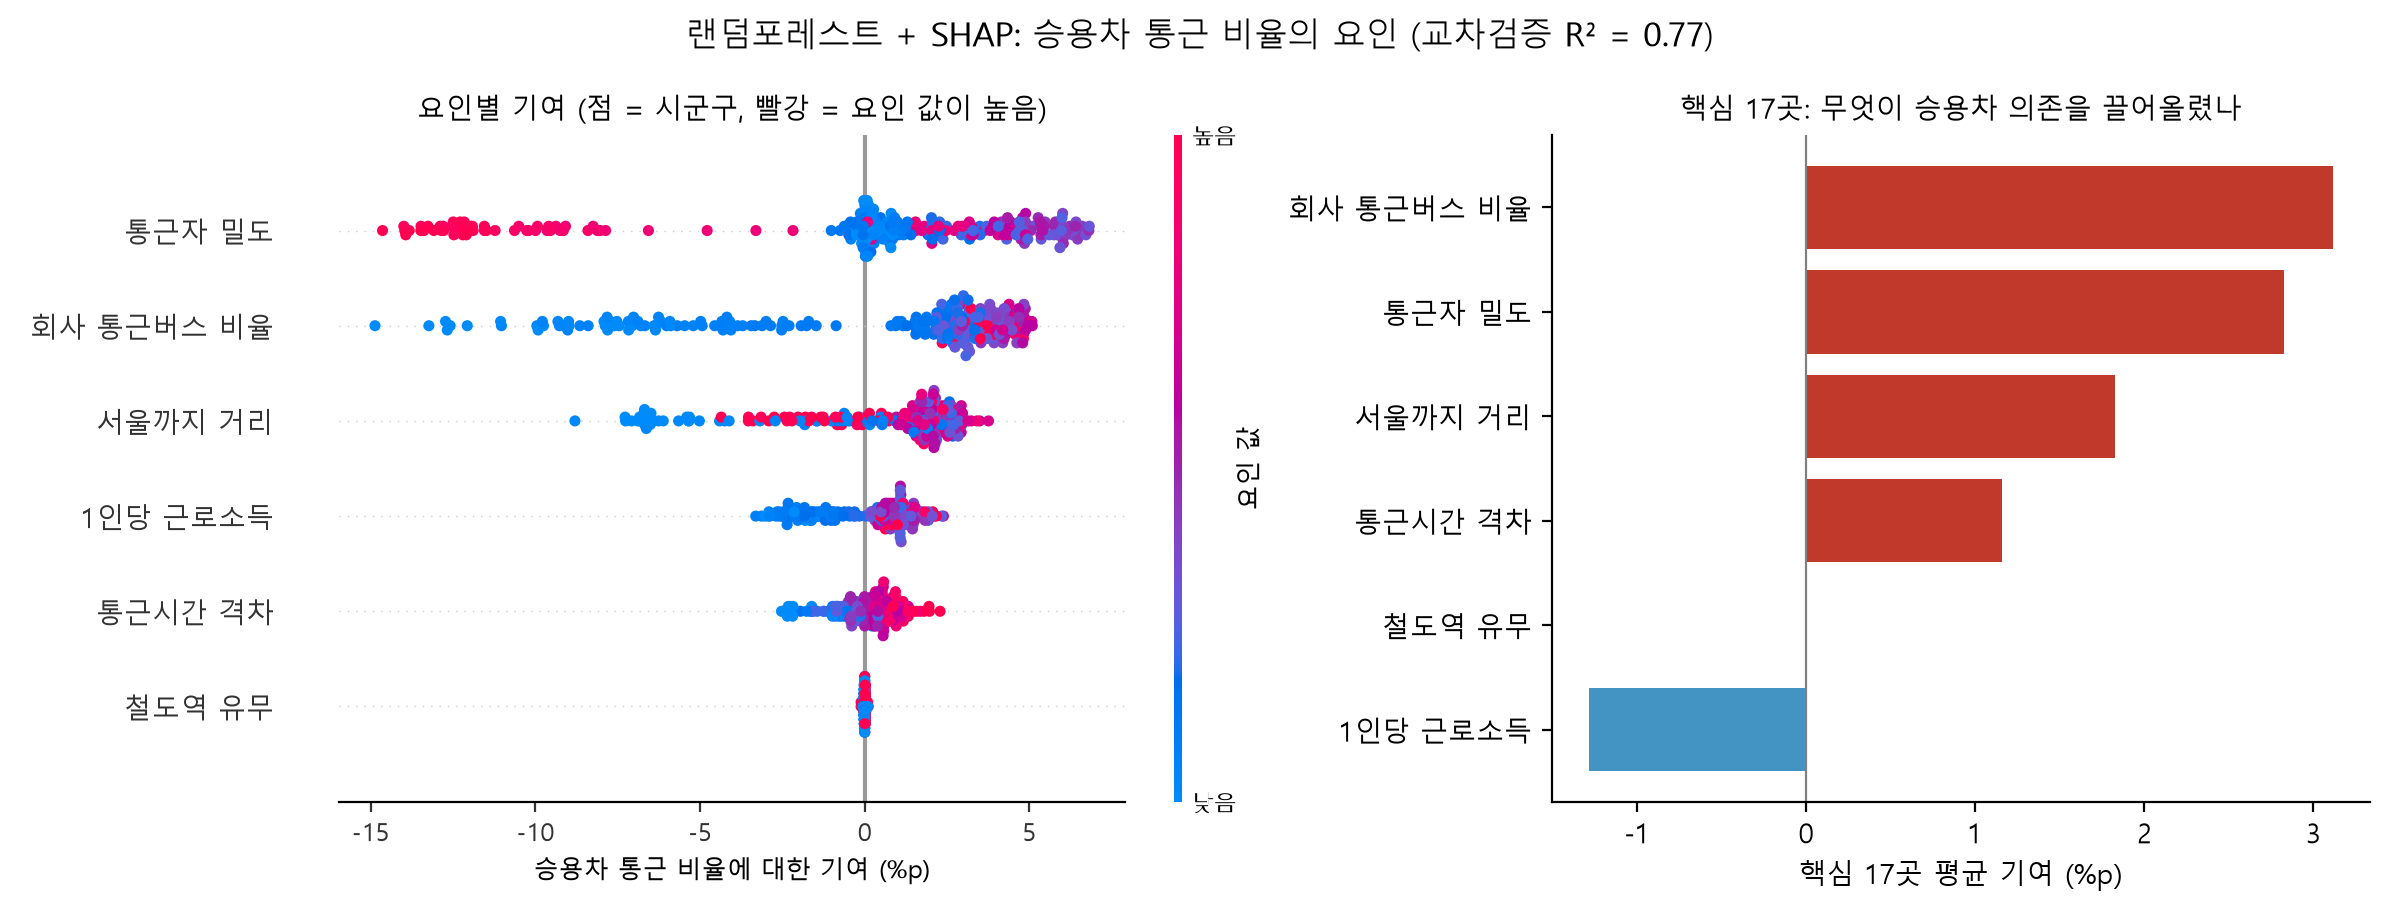
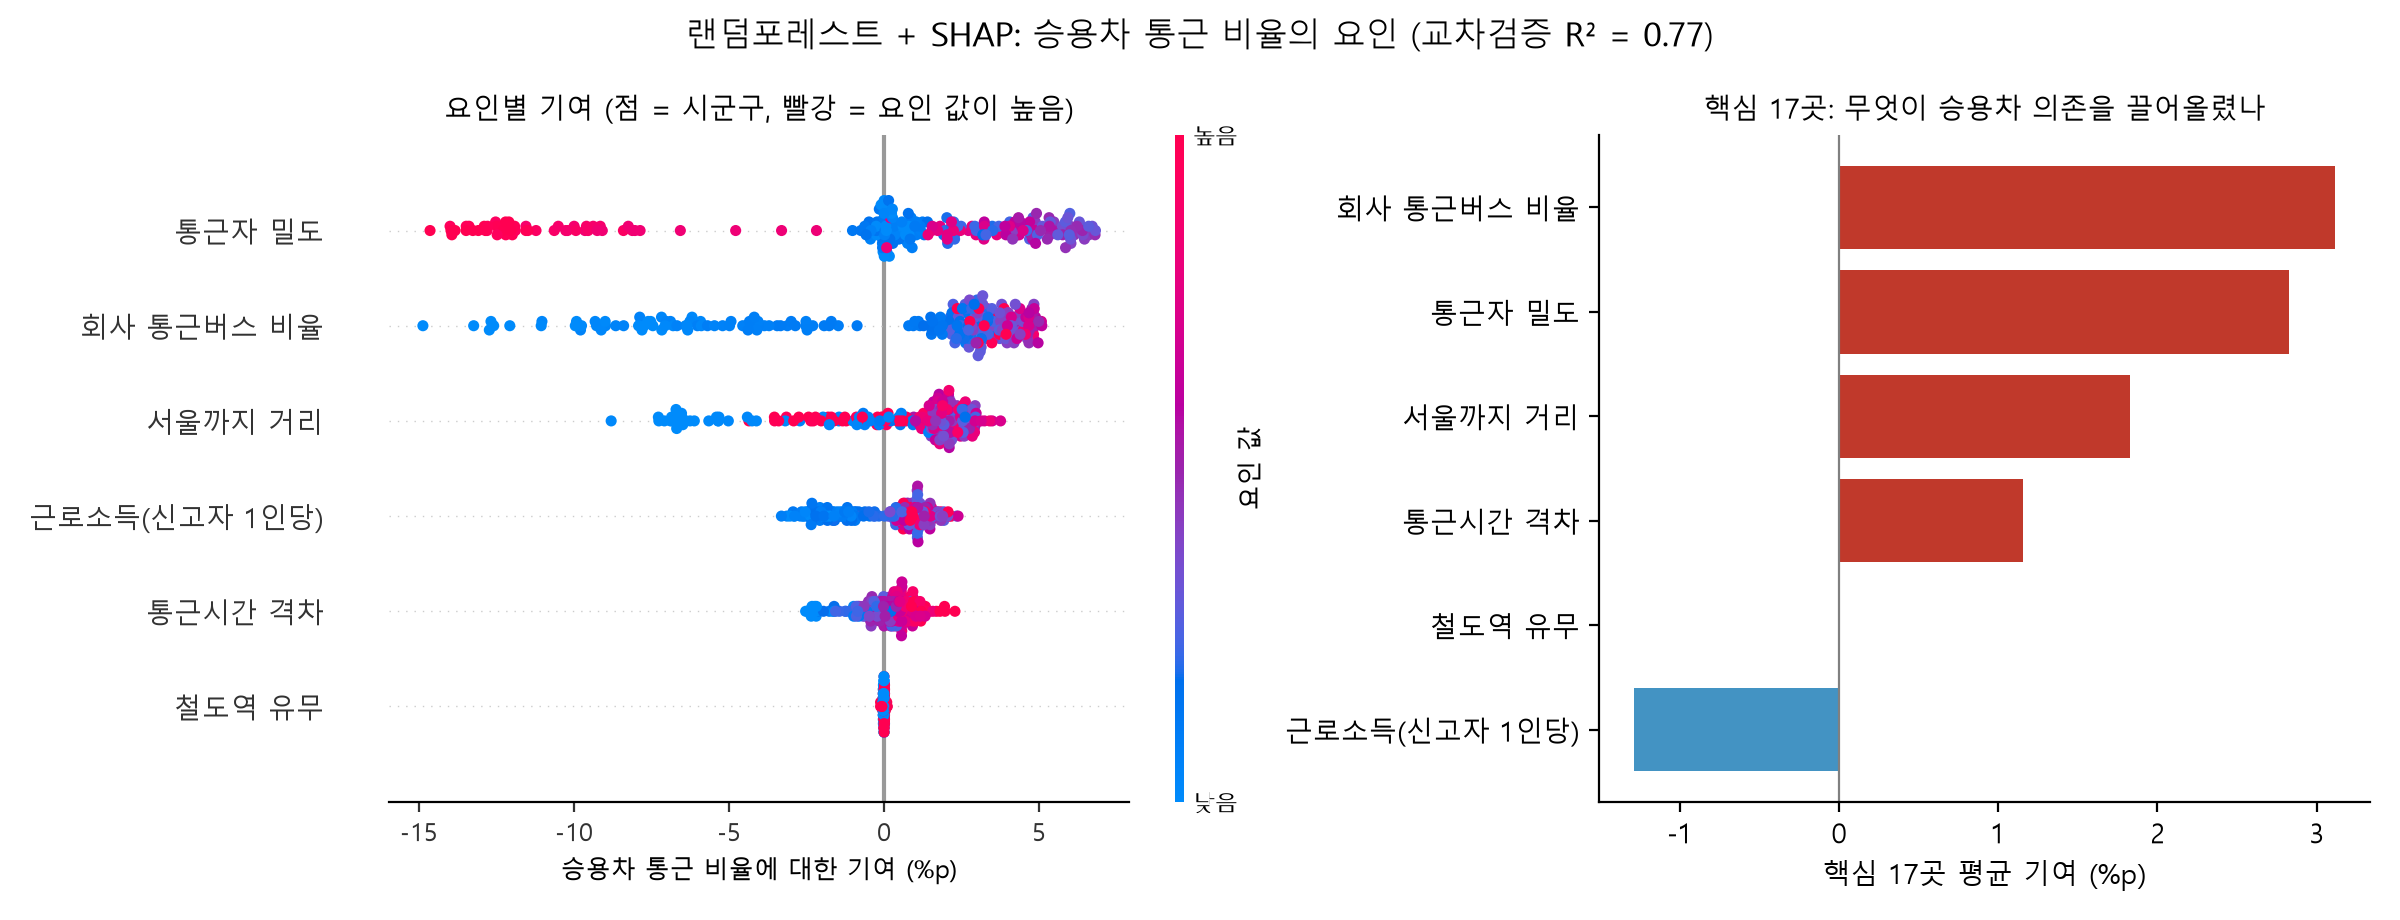
Add files via upload

diff --git a/code/10_print_figures.py b/code/10_print_figures.py
@@ -30,42 +30,52 @@ DPI = 450
 def fig1():
     g = gpd.read_file(PROC / "sgg_2020_analyzed.geojson")
     gm = g.to_crs(5179)
-    fig, axes = plt.subplots(1, 2, figsize=(3.9, 2.05), gridspec_kw={"width_ratios": [0.85, 1.15]})
-    ax = axes[0]
-    xmin, ymin, xmax, ymax = gm[gm["key"] != "경북|울릉군"].total_bounds
-    gm.plot(column="fcd_index", cmap="RdBu_r", vmin=-4, vmax=4, ax=ax, edgecolor="white", linewidth=0.1)
-    gm[gm["core"]].boundary.plot(ax=ax, color="black", linewidth=0.5)
-    ax.set_xlim(xmin, xmax)
-    ax.set_ylim(ymin, ymax)
-    ax.set_axis_off()
-    ax.set_title("의존 지수 (테두리: 핵심 17곳)")
-    sm = plt.cm.ScalarMappable(cmap="RdBu_r", norm=plt.Normalize(-4, 4))
-    cb = fig.colorbar(sm, ax=ax, fraction=0.04, pad=0.0, shrink=0.6)
-    cb.ax.tick_params(labelsize=5)
-    cb.set_label("높을수록 의심", fontsize=5.5)
+    fig = plt.figure(figsize=(3.9, 2.15))
+    # 두 패널의 제목 높이를 맞추려고 축 위치를 직접 정한다(제목은 같은 높이의 fig.text)
+    ax_map = fig.add_axes([0.0, 0.17, 0.36, 0.72])
+    ax_cb = fig.add_axes([0.06, 0.10, 0.24, 0.025])
+    ax = fig.add_axes([0.47, 0.17, 0.52, 0.72])
 
-    ax = axes[1]
+    xmin, ymin, xmax, ymax = gm[gm["key"] != "경북|울릉군"].total_bounds
+    gm.plot(column="fcd_index", cmap="RdBu_r", vmin=-4, vmax=4, ax=ax_map, edgecolor="white", linewidth=0.1)
+    gm[gm["core"]].boundary.plot(ax=ax_map, color="black", linewidth=0.5)
+    ax_map.set_xlim(xmin, xmax)
+    ax_map.set_ylim(ymin, ymax)
+    ax_map.set_axis_off()
+    sm = plt.cm.ScalarMappable(cmap="RdBu_r", norm=plt.Normalize(-4, 4))
+    cb = fig.colorbar(sm, cax=ax_cb, orientation="horizontal", ticks=[-4, -2, 0, 2, 4])
+    cb.ax.tick_params(labelsize=5, length=1.5, pad=1)
+    cb.outline.set_linewidth(0.4)
+    cb.set_label("의존 지수 (높을수록 의심)", fontsize=5.5, labelpad=1.5)
+
     q = g["quadrant"]
     for name, c, lab in [("선택적 자가용(고소득)", BLUE, "고소득·고자가용"), ("저소득·저자가용", GREY, "저소득·저자가용"),
                          ("기타", "#e3e3e3", "기타"), ("강제된 의존 의심", RED, "강제된 의존 의심")]:
-        s = g[q == name]
-        ax.scatter(s["income_per_worker"], s["car_share"] * 100, s=5, c=c, edgecolors="none", label=lab)
+        sub = g[q == name]
+        ax.scatter(sub["income_per_worker"], sub["car_share"] * 100, s=5, c=c, edgecolors="none", label=lab)
     cs = g[g["core"]]
     ax.scatter(cs["income_per_worker"], cs["car_share"] * 100, s=9, facecolors="none", edgecolors="black",
                linewidths=0.5, label="핵심 17곳")
-    for nm, off in [("진천군", (3, -1))]:
-        r = g[g["key"].str.endswith(nm)].iloc[0]
-        ax.annotate(nm, (r["income_per_worker"], r["car_share"] * 100), fontsize=5.4, xytext=off,
-                    textcoords="offset points")
+    r = g[g["key"].str.endswith("진천군")].iloc[0]
+    ax.annotate("진천군", (r["income_per_worker"], r["car_share"] * 100), fontsize=5.4, xytext=(3, -1),
+                textcoords="offset points")
     ax.axvline(g["income_per_worker"].median(), color="grey", lw=0.4, ls="--")
     ax.axhline(g["car_share"].median() * 100, color="grey", lw=0.4, ls="--")
     ax.set_xlim(2500, 5200)
-    ax.set_xlabel("1인당 근로소득 (만원, 2020)")
-    ax.set_ylabel("승용차 통근 비율 (%)")
-    ax.set_title("소득 대비 승용차 의존")
-    ax.legend(loc="lower right", frameon=False, handletextpad=0.2, borderpad=0.2, labelspacing=0.25)
+    ax.set_xlabel("근로소득 신고자 1인당 총급여 (만원, 2020)", labelpad=2)
+    ax.set_ylabel("승용차 통근 비율 (%)", labelpad=2)
+    leg = ax.legend(loc="lower right", frameon=True, handletextpad=0.2, borderpad=0.3, labelspacing=0.25,
+                    fontsize=5.4)
+    leg.get_frame().set_facecolor("white")
+    leg.get_frame().set_edgecolor("none")
+    leg.get_frame().set_alpha(0.92)
     ax.spines[["top", "right"]].set_visible(False)
-    fig.tight_layout(pad=0.3, w_pad=0.6)
+
+    # 제목: 두 패널 모두 같은 높이, 각 패널 가운데
+    ty = 0.955
+    fig.text(0.18, ty, "의존 지수 (테두리: 핵심 17곳)", ha="center", va="center", fontsize=7.2)
+    pos = ax.get_position()
+    fig.text((pos.x0 + pos.x1) / 2, ty, "소득 대비 승용차 통근 비율", ha="center", va="center", fontsize=7.2)
     fig.savefig(FIG / "print_fig1_map_scatter.png", dpi=DPI, bbox_inches="tight", pad_inches=0.03)
 
 
@@ -74,19 +84,26 @@ def fig2():
     core = pd.read_csv(TAB / "ml_shap_core.csv", index_col=0).iloc[:, 0].sort_values()
     perf = pd.read_csv(TAB / "ml_performance.csv", index_col=0)
     r2 = perf.iloc[0, 0]
-    fig, axes = plt.subplots(1, 2, figsize=(3.9, 1.55))
+    fig, axes = plt.subplots(1, 2, figsize=(3.9, 1.6))
     ax = axes[0]
-    ax.barh(imp.index, imp.values, color="#7f8c8d")
-    ax.set_title(f"전체 요인 중요도 (R²={r2:.2f})")
+    ax.barh(imp.index, imp.values, color="#7f8c8d", height=0.65)
+    ax.set_title("전체 요인 중요도", pad=4)
     ax.set_xlabel("평균 |SHAP| (%p)")
+    ax.text(0.98, 0.04, f"교차검증 R² {r2:.2f}", transform=ax.transAxes, ha="right", va="bottom",
+            fontsize=5.4, color="#555555")
     ax = axes[1]
-    ax.barh(core.index, core.values, color=[RED if v > 0 else BLUE for v in core.values])
+    ax.barh(core.index, core.values, color=[RED if v > 0 else BLUE for v in core.values], height=0.65)
     ax.axvline(0, color="grey", lw=0.5)
-    ax.set_title("핵심 17곳 기여 방향")
-    ax.set_xlabel("평균 SHAP (%p, +는 예측값을 올림)")
+    ax.set_xlim(-2, 4)
+    ax.set_xticks([-2, -1, 0, 1, 2, 3, 4])
+    ax.set_title("핵심 17곳 기여 방향", pad=4)
+    ax.set_xlabel("평균 SHAP (%p)")
+    ax.text(0.2, list(core.index).index("철도역 유무"), "+ 예측 올림, - 내림", ha="left", va="center",
+            fontsize=5.4, color="#555555")
     for a in axes:
         a.spines[["top", "right"]].set_visible(False)
-    fig.tight_layout(pad=0.3, w_pad=0.8)
+        a.tick_params(axis="y", length=0)
+    fig.tight_layout(pad=0.3, w_pad=1.0)
     fig.savefig(FIG / "print_fig2_shap.png", dpi=DPI, bbox_inches="tight", pad_inches=0.03)
 
 

diff --git a/tools/add_pdf_links.py b/tools/add_pdf_links.py
@@ -1,0 +1,47 @@
+"""
+add_pdf_links.py
+한글에서 저장한 보고서 PDF를 마무리한다.
+  - 끝에 남은 빈 쪽(쪽 번호와 머리글 로고만 있는 쪽)을 지운다.
+  - 코드 저장소 주소에 클릭 가능한 링크를 건다(이미 있으면 다시 걸지 않음).
+fill_hwp.py 실행 뒤 이어서 돌린다.
+"""
+import sys
+from pathlib import Path
+
+import pymupdf
+
+ROOT = Path(__file__).resolve().parents[1]
+PDF = ROOT / "hwp" / "한동훈_분석보고서.pdf"
+URL = "https://github.com/donghooon-han/forced-car-dependence"
+
+
+def is_blank(page, logo_count):
+    text = "".join(page.get_text().split()).strip("-0123456789")
+    return not text and len(page.get_images()) <= logo_count
+
+
+def main():
+    sys.stdout.reconfigure(encoding="utf-8")
+    doc = pymupdf.open(PDF)
+    logo_count = min(len(p.get_images()) for p in doc)  # 모든 쪽에 공통인 머리글 로고 수
+    removed = 0
+    while len(doc) > 1 and is_blank(doc[-1], logo_count):
+        doc.delete_page(len(doc) - 1)
+        removed += 1
+    n = 0
+    for page in doc:
+        has = {(round(l["from"].x0), round(l["from"].y0)) for l in page.get_links() if l.get("uri") == URL}
+        for rect in page.search_for(URL):
+            if (round(rect.x0), round(rect.y0)) in has:
+                continue
+            page.insert_link({"kind": pymupdf.LINK_URI, "from": rect, "uri": URL})
+            n += 1
+    tmp = PDF.with_suffix(".tmp.pdf")
+    doc.save(tmp, garbage=3, deflate=True)
+    doc.close()
+    tmp.replace(PDF)
+    print(f"빈 쪽 {removed}개 삭제, 링크 {n}곳 추가:", PDF)
+
+
+if __name__ == "__main__":
+    main()

diff --git a/code/02_analysis.py b/code/02_analysis.py
@@ -165,7 +165,7 @@ def main():
             ax.annotate(r["name"], (r["income_per_worker"], r["car_share"] * 100), fontsize=7,
                         xytext=(3, 2), textcoords="offset points")
         ax.set_xlim(2500, 5200)
-        ax.set_xlabel("1인당 근로소득 (만원, 2020)  ※ 5,200만원 초과 일부 구 생략")
+        ax.set_xlabel("근로소득 신고자 1인당 총급여 (만원, 2020)  ※ 5,200만원 초과 일부 구 생략")
         ax.set_ylabel("승용차 통근 비율 (%)")
         ax.set_title("소득 대비 승용차 의존 (점 크기: 대중교통-승용차 통근시간 차이)", fontsize=11)
         ax.legend(loc="lower right", fontsize=7)

diff --git a/code/08_infographic.py b/code/08_infographic.py
@@ -68,7 +68,7 @@ def main():
     card(fig, x0, 0.16, w, h, f"{inc:+.1f}%p",
          f"소득 변수의 예측 기여(SHAP)\n지역 여건 요인은\n합계 +{struct:.1f}%p", BLUE)
     card(fig, x0 + w + 0.015, 0.16, w, h, "8.4명",
-         "늘린 버스 평균 재차인원\n손익분기(새 승객 중\n원래 운전자 50% 가정)", BLUE)
+         "늘린 버스 평균 재차인원\n손익분기 예시(원래\n운전자 50% 가정)", BLUE)
 
     ax = fig.add_axes([0.03, 0.015, 0.94, 0.12])
     ax.set_axis_off()

diff --git a/code/07_ml_shap.py b/code/07_ml_shap.py
@@ -36,7 +36,7 @@ SEED = 42
 SEOUL_CITY_HALL = Point(126.9780, 37.5665)
 
 FEATURES = {
-    "log_income": "1인당 근로소득",
+    "log_income": "근로소득(신고자 1인당)",
     "time_diff": "통근시간 격차",
     "has_rail": "철도역 유무",
     "log_density": "통근자 밀도",
